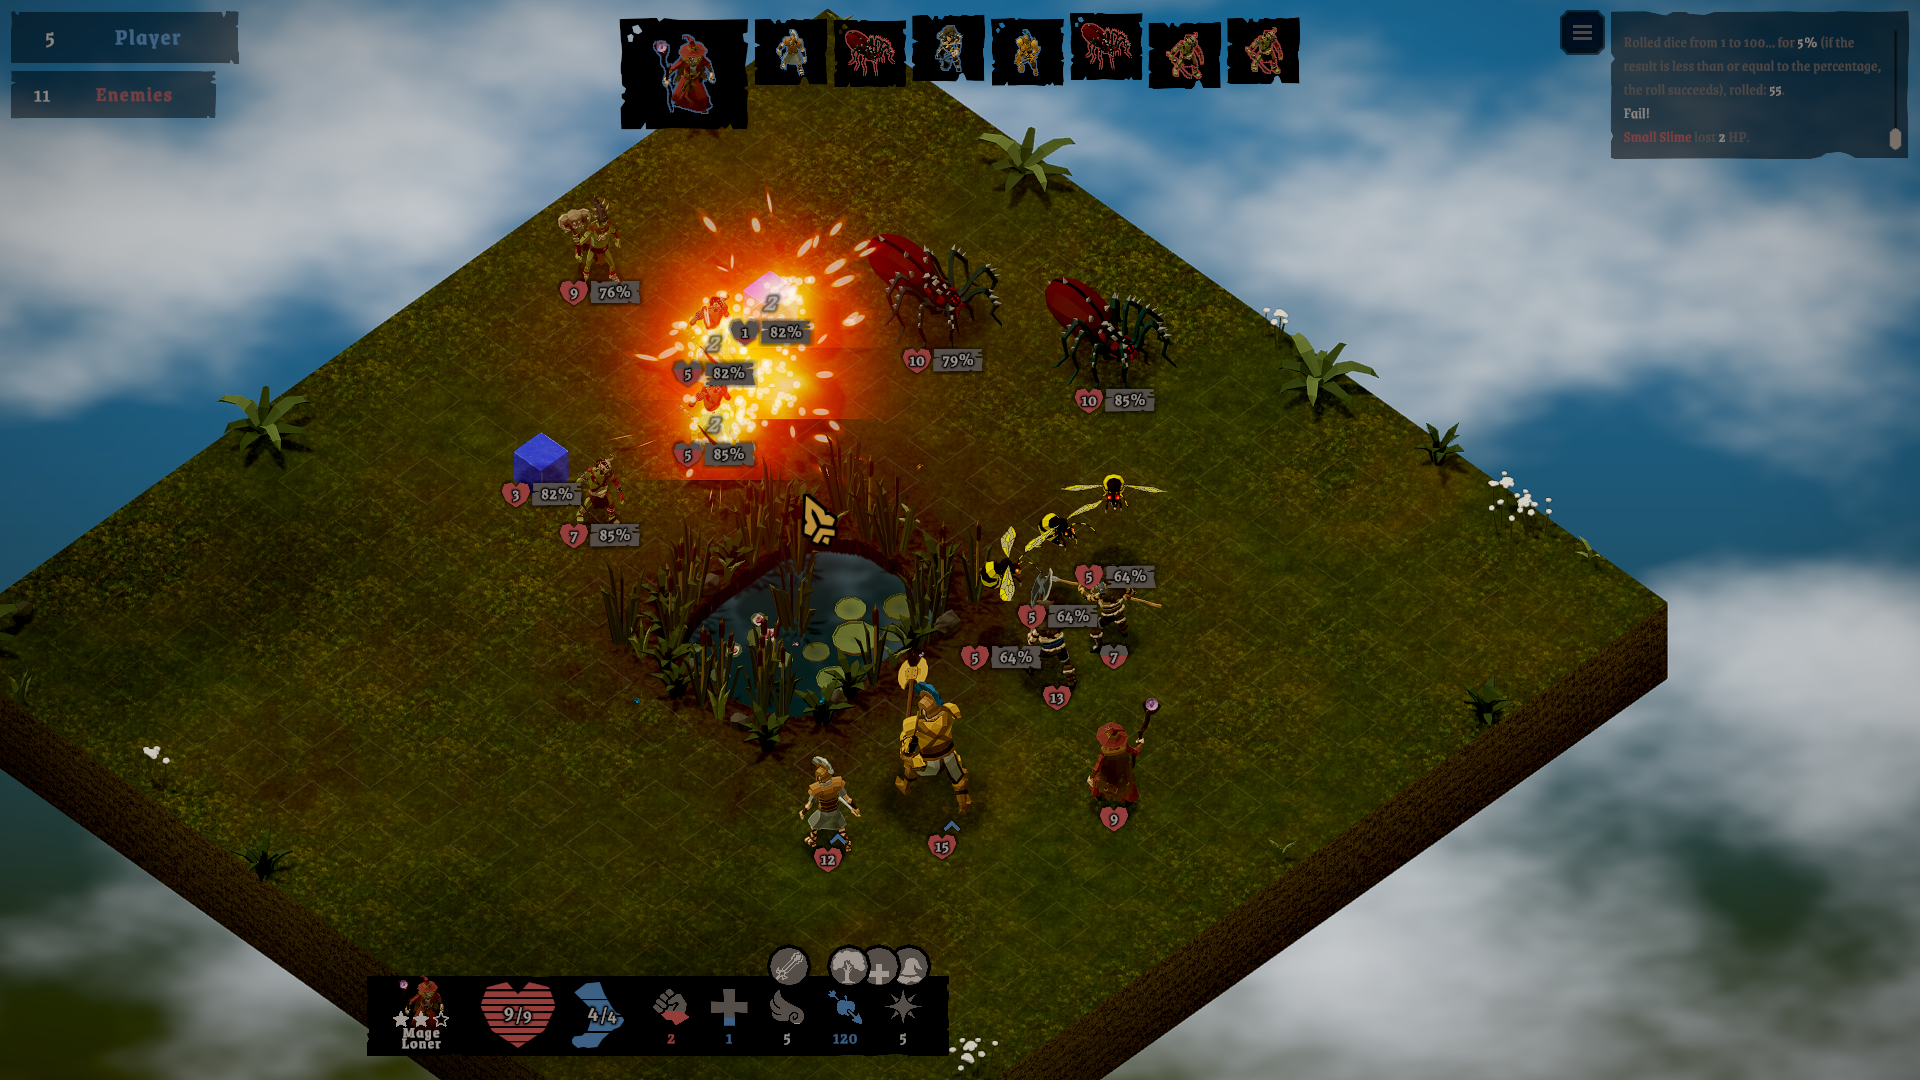
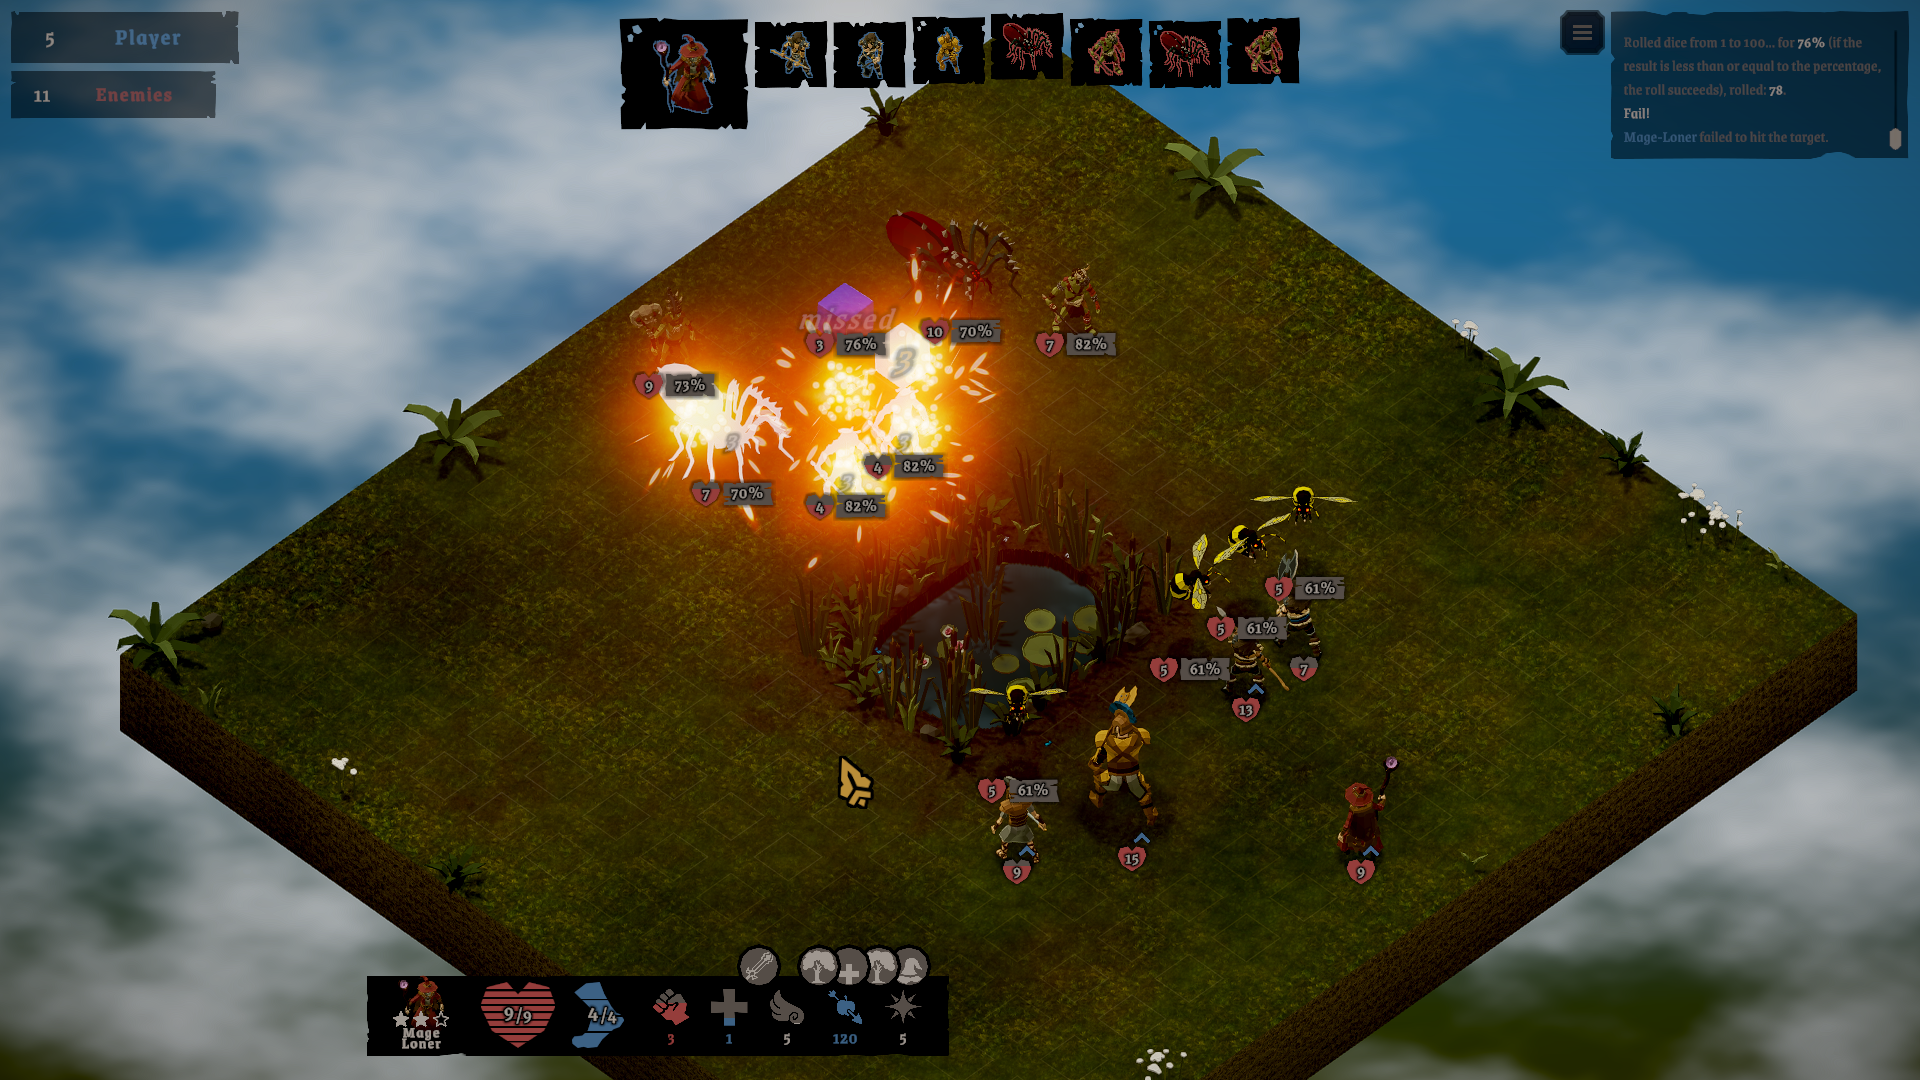
updated screenshot

diff --git a/index.html b/index.html
@@ -91,7 +91,7 @@ footer{margin-top:82px;font-size:14.5px;color:var(--grey)}
 <section>
   <h2>Download the Press Kit</h2>
   <div class="btnrow">
-    <a class="dl" href="https://drive.google.com/uc?export=download&id=1SLd8xwKXBNqTfz-Kyz4m4OHqQzIOeOSM">Download the Press Kit (38 MB)</a>
+    <a class="dl" href="https://drive.google.com/uc?export=download&id=1FYE6V0i3FHO-A4xV-zCzSOuO_eR09lTg">Download the Press Kit (38 MB)</a>
     <a class="dl" href="https://drive.google.com/uc?export=download&id=13XMrZXuF6Wa65jziN9Dj6qFQZhAFSxjr">Download the trailer (220 MB)</a>
   </div>
 </section>
@@ -221,7 +221,7 @@ footer{margin-top:82px;font-size:14.5px;color:var(--grey)}
 <section>
   <h2>Download the Press Kit</h2>
   <div class="btnrow">
-    <a class="dl" href="https://drive.google.com/uc?export=download&id=1SLd8xwKXBNqTfz-Kyz4m4OHqQzIOeOSM">Download the Press Kit (38 MB)</a>
+    <a class="dl" href="https://drive.google.com/uc?export=download&id=1FYE6V0i3FHO-A4xV-zCzSOuO_eR09lTg">Download the Press Kit (38 MB)</a>
     <a class="dl" href="https://drive.google.com/uc?export=download&id=13XMrZXuF6Wa65jziN9Dj6qFQZhAFSxjr">Download the trailer (220 MB)</a>
   </div>
 </section>
